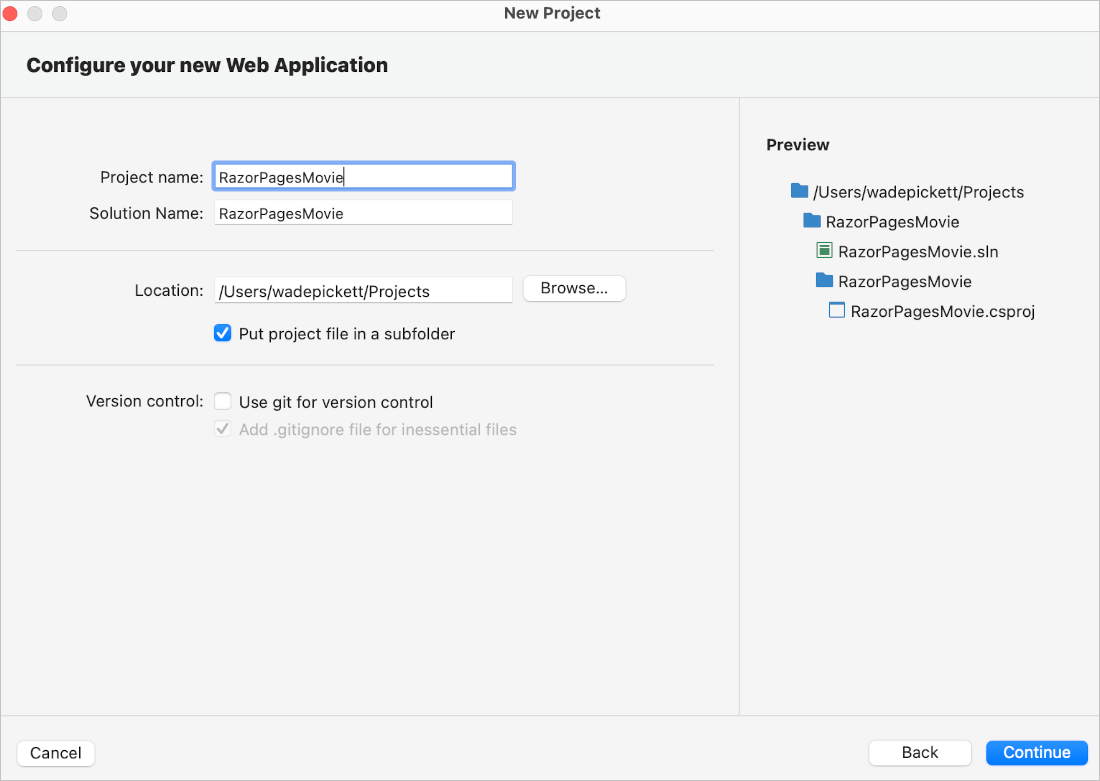
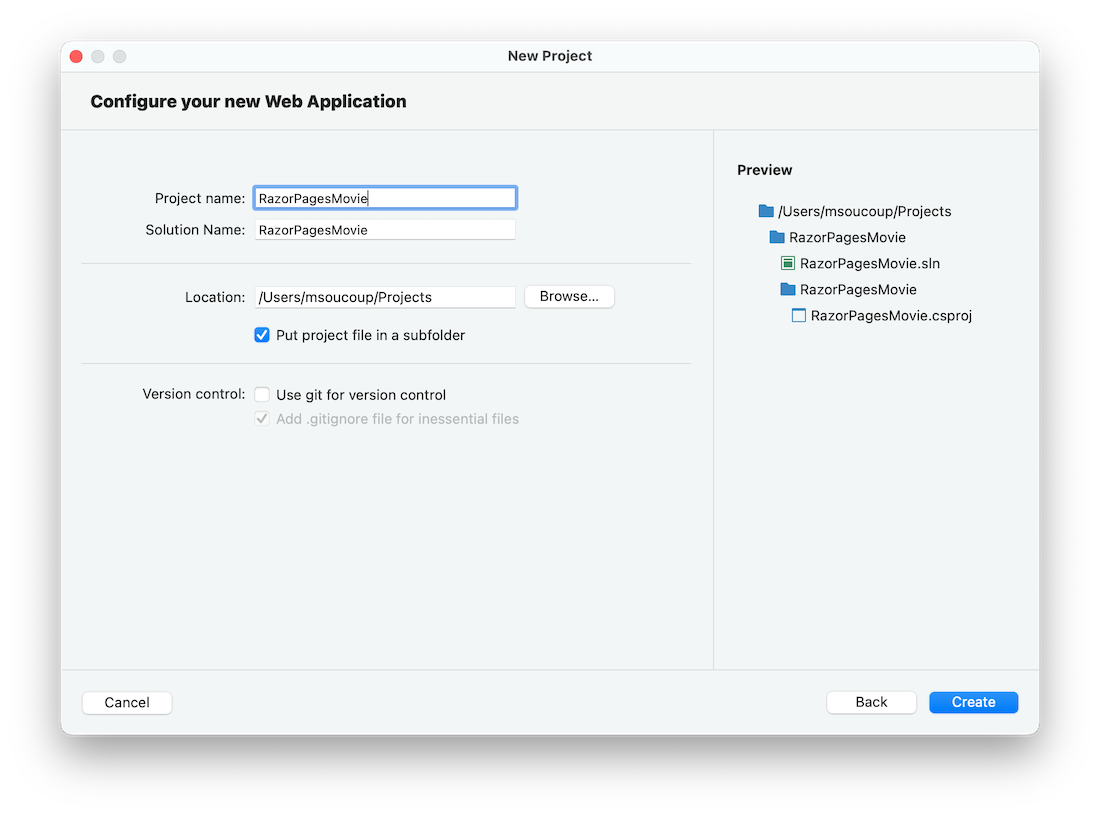
updating w/ new vsmac 2022 info

diff --git a/aspnetcore/tutorials/razor-pages/razor-pages-start.md b/aspnetcore/tutorials/razor-pages/razor-pages-start.md
@@ -46,8 +46,6 @@ At the end of this tutorial, you'll have a working Razor Pages web app that you'
 
 # [Visual Studio for Mac](#tab/visual-studio-mac)
 
-We hope to have Visual Studio for Mac instructions soon.
-
 [!INCLUDE[](~/includes/net-prereqs-mac-6.0.md)]
 
 ---
@@ -103,17 +101,17 @@ We hope to have Visual Studio for Mac instructions soon.
 
 	![macOS New solution](razor-pages-start/_static/6/new_project_vsmac6.png)
 
-1. In Visual Studio 2022 for Mac select **Web and Console** > **App** > **Web Application** > **Continue**.
+1. In Visual Studio 2022 for Mac select **Web and Console** > **App** > **Web Application** > **Next**.
 
 	![macOS web app template selection](razor-pages-start/_static/6/web_app_template_vsmac6.png)
 
 1. In the **Configure your new Web Application** dialog:
 
-	1. Confirm that **Authentication** is set to **No Authentication**.
 	1. Confirm that **Target framework** is set to the latest .NET 6.x version.
-  1. Select **Continue**.
+  1. Confirm that **Authentication** is set to **No Authentication**.
+  1. Select **Next**.
 
-1. Name the project *RazorPagesMovie* and select **Continue**.
+1. Name the project *RazorPagesMovie* and select **Create**.
 
 	![macOS name the project](razor-pages-start/_static/6/razorpagesmovievsmac6.png)
 
@@ -156,7 +154,7 @@ The default browser launched with the following URL: [https://localhost:5001](ht
 
 # [Visual Studio for Mac](#tab/visual-studio-mac)
 
-Select **Run** > **Start Debugging** to launch the app. Visual Studio for Mac launches a browser and navigates to `https://localhost:<port>`, where `<port>` is a randomly chosen port number.
+Select **Debug** > **Start Debugging** to launch the app. Visual Studio for Mac launches a browser and navigates to `https://localhost:<port>`, where `<port>` is a randomly chosen port number.
 
 ---
 

diff --git a/aspnetcore/includes/net-prereqs-mac-6.0.md b/aspnetcore/includes/net-prereqs-mac-6.0.md
@@ -2,4 +2,3 @@
 no-loc: [".NET MAUI", "Mac Catalyst", "Blazor Hybrid", Home, Privacy, Kestrel, appsettings.json, "ASP.NET Core Identity", cookie, Cookie, Blazor, "Blazor Server", "Blazor WebAssembly", "Identity", "Let's Encrypt", Razor, SignalR]
 ---
 * [Visual Studio 2022 for Mac latest preview](https://visualstudio.microsoft.com/vs/mac/preview/)
-* [!INCLUDE [.NET 6.0 SDK](~/includes/6.0-SDK.md)]
